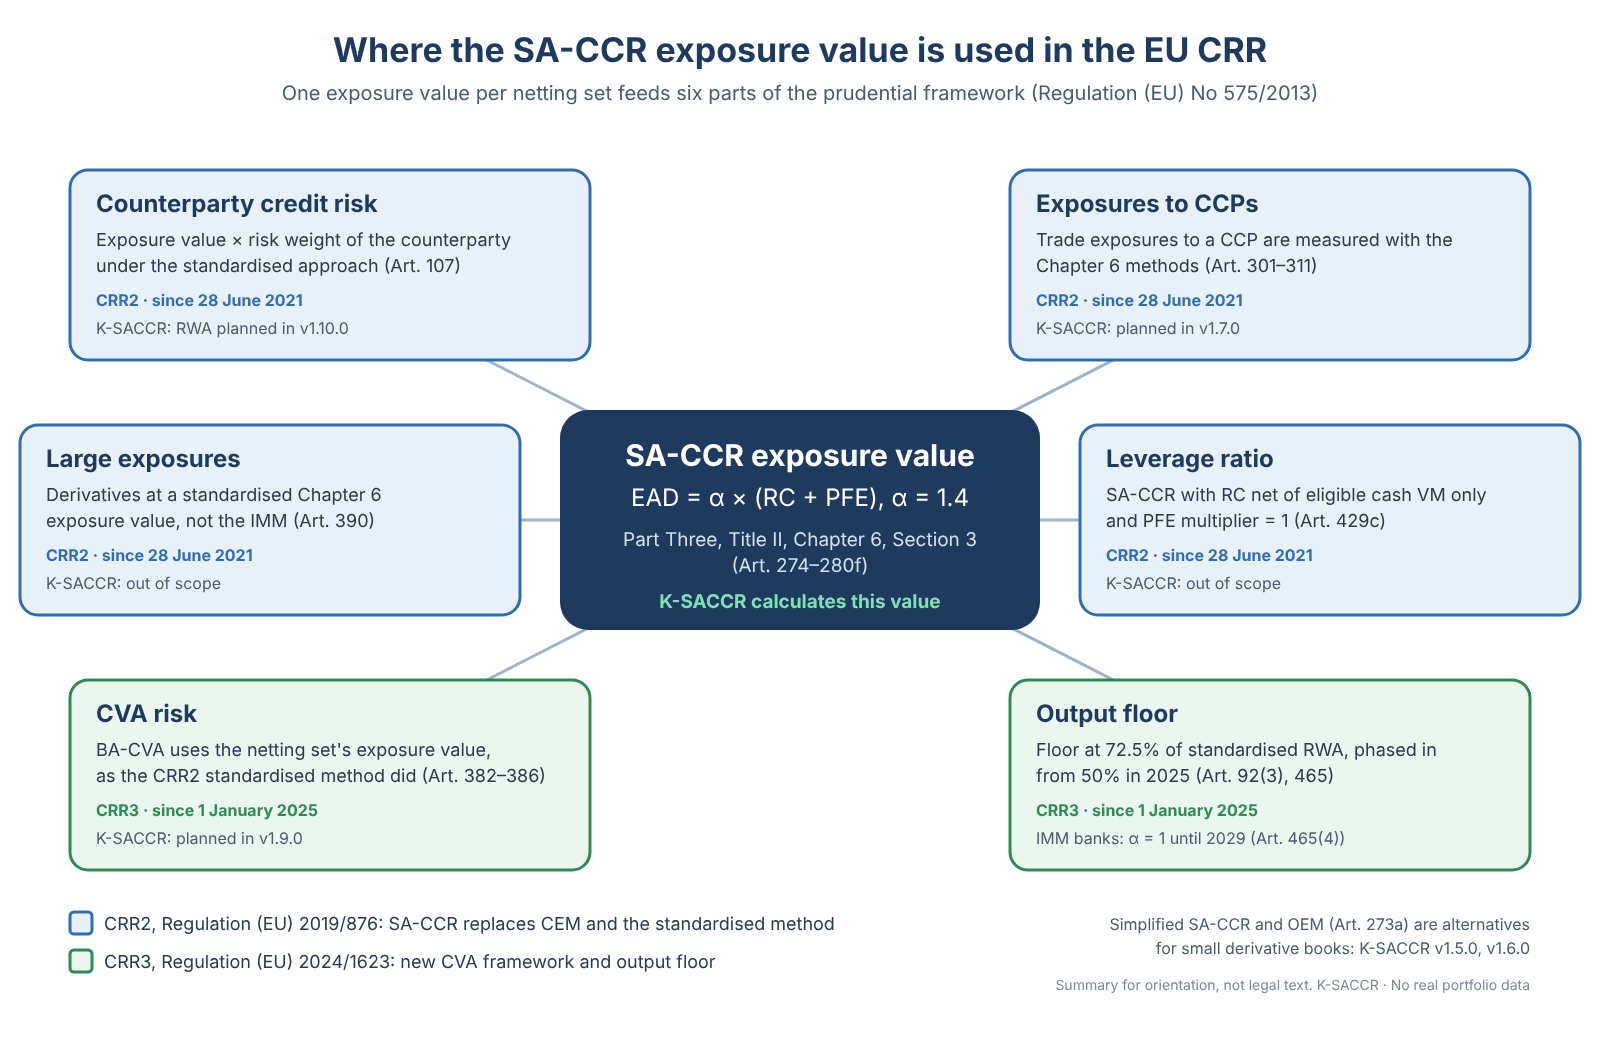
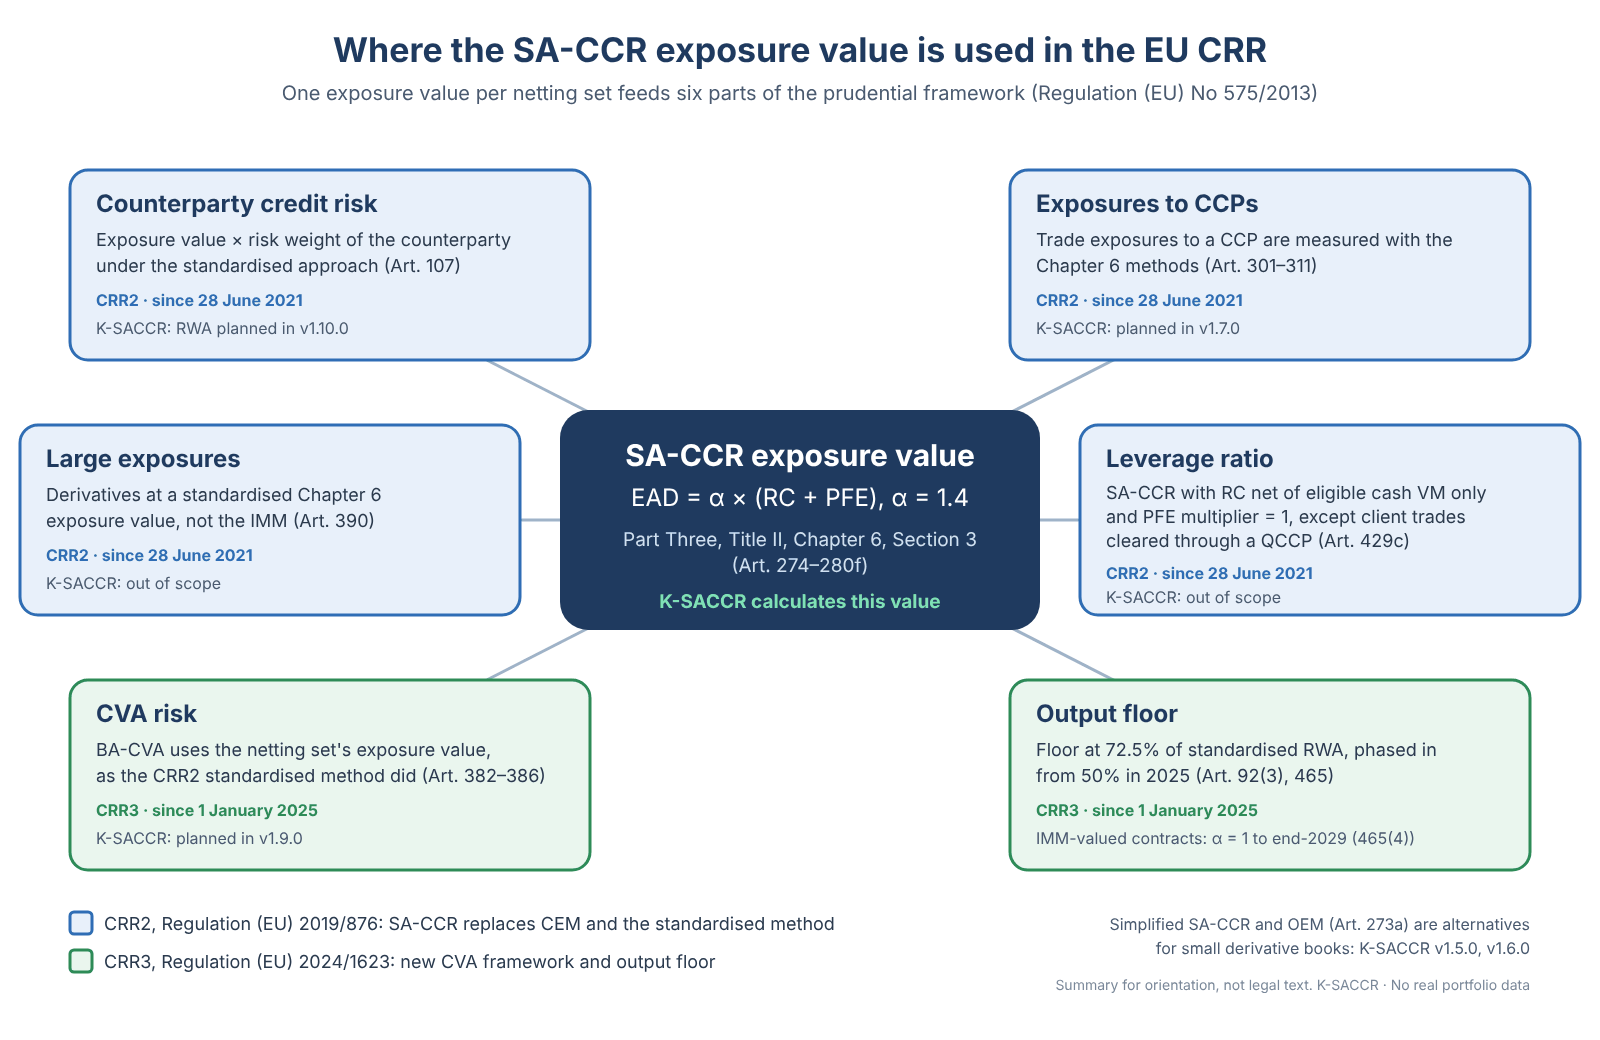
Qualify the leverage and output-floor cards
Art. 429c excepts client trades cleared through a QCCP from the cash-VM
rule and from the PFE multiplier of 1, and Art. 465(4) allows alpha = 1
until 31 December 2029 only for contracts whose un-floored exposure value
comes from the internal model method, not for every institution with IMM
permission. The two cards and the asset notes say so; the PNG is
rendered again.

Validated: python tools/check.py passes; the SVG renders at 1600 x 1040
with the longer leverage card inside its box.

Changed region(s): [[0.6875, 0.4615, 0.9375, 0.5846], [0.6562, 0.8, 0.875, 0.8308]]

diff --git a/docs/assets/README.md b/docs/assets/README.md
@@ -102,11 +102,14 @@ exposure value of a netting set:
 - exposures to CCPs (Art. 301–311);
 - large exposures (Art. 390);
 - the leverage ratio, with RC net of eligible cash variation margin only and a
-  PFE multiplier of 1 (Art. 429c);
+  PFE multiplier of 1, except for client trades cleared through a QCCP
+  (Art. 429c);
 - CVA risk, through the standardised method under CRR2 and BA-CVA under CRR3
   (Art. 382–386);
-- the output floor of CRR3, 50% of standardised RWA in 2025 rising to 72.5%,
-  with α = 1 for institutions with IMM permission until 2029 (Art. 92(3), 465).
+- the output floor of CRR3, 50% of standardised RWA in 2025 rising to 72.5%;
+  until 31 December 2029, contracts whose un-floored exposure value comes from
+  the internal model method may use α = 1 in SA-CCR for the floor
+  (Art. 92(3), 465(4)).
 
 Each part is coloured by the regulation that brought it in, CRR2 (Regulation
 (EU) 2019/876, SA-CCR applied from 28 June 2021) or CRR3 (Regulation (EU)
